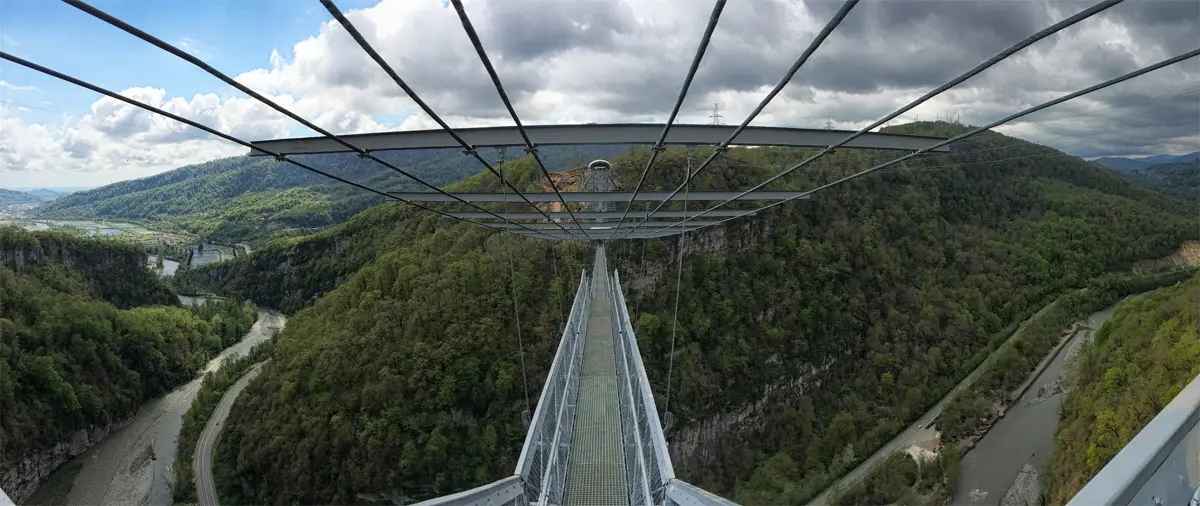
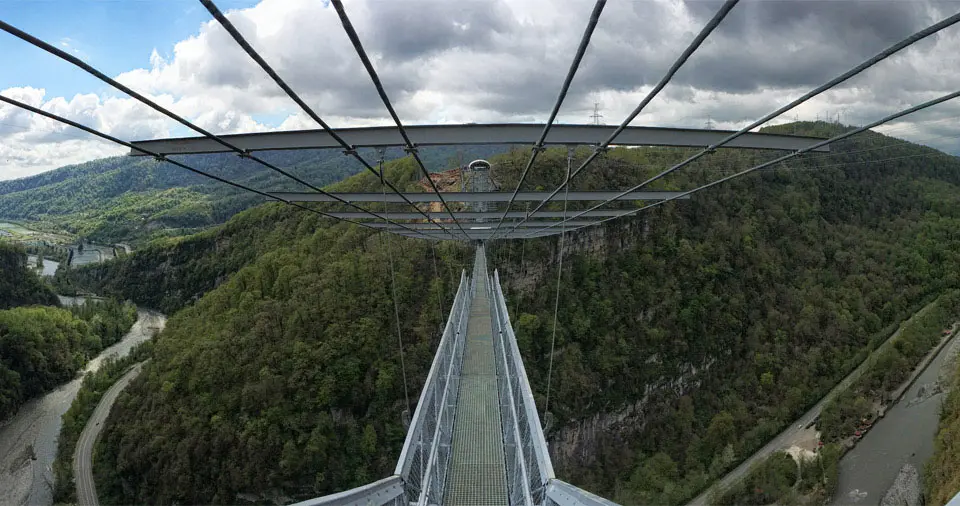
Множественные правки в связи с проблемами переполнения. Картинка первого комментария изменена на обрезанную по ширине контейнера.

diff --git a/source/index.html b/source/index.html
@@ -187,11 +187,17 @@
             </p>
           </blockquote>
         </div>
-        <p class="reviews__toggles slider__toggles">
-          <button class="slider__toggle slider__toggle--current" type="button" aria-label="Первый слайд"></button>
-          <button class="slider__toggle" type="button" aria-label="Второй слайд"></button>
-          <button class="slider__toggle" type="button" aria-label="Третий слайд"></button>
-        </p>
+        <ul class="reviews__toggles slider__toggles">
+          <li class="slider__item">
+            <button class="slider__toggle slider__toggle--current" type="button" aria-label="Первый слайд"></button>
+          </li>
+          <li class="slider__item">
+            <button class="slider__toggle" type="button" aria-label="Второй слайд"></button>
+          </li>
+          <li class="slider__item">
+            <button class="slider__toggle" type="button" aria-label="Третий слайд"></button>
+          </li>
+        </ul>
       </div>
     </section>
     <section class="prices">
@@ -260,11 +266,17 @@
             </tr>
           </tbody>
         </table>
-        <p class="prices__toggles slider__toggles">
-          <button class="slider__toggle" type="button" aria-label="Первый слайд"></button>
-          <button class="slider__toggle slider__toggle--current" type="button" aria-label="Второй слайд"></button>
-          <button class="slider__toggle" type="button" aria-label="Третий слайд"></button>
-        </p>
+        <ul class="prices__toggles slider__toggles">
+          <li class="slider__item">
+            <button class="slider__toggle" type="button" aria-label="Первый слайд"></button>
+          </li>
+          <li class="slider__item">
+            <button class="slider__toggle slider__toggle--current" type="button" aria-label="Второй слайд"></button>
+          </li>
+          <li class="slider__item">
+            <button class="slider__toggle" type="button" aria-label="Третий слайд"></button>
+          </li>
+        </ul>
       </div>
     </section>
     <section class="contacts">

diff --git a/source/less/blocks/photoeditor.less b/source/less/blocks/photoeditor.less
@@ -6,7 +6,7 @@
   &::before {
     content: "";
     position: absolute;
-    top: 724px;
+    bottom: -555px;
     width: 100%;
     height: 1px;
     background-color: @gray-dark;
@@ -50,7 +50,6 @@
   }
 
   &--reset {
-    margin-top: 12px;
     color: @gray-dark;
     background-color: @gray-light;
     border-color: @gray-dark;
@@ -67,6 +66,10 @@
       border-color: @gray-darken;
     }
   }
+}
+
+.photoeditor__button + .photoeditor__button {
+  margin-top: 12px;
 }
 
 .photoeditor__wrapper {
@@ -280,10 +283,7 @@
     width: 24px;
     height: 165px;
     padding: 0;
-    margin-top: 10px;
-    margin-right: 0;
-    margin-left: 2px;
-    margin-bottom: 0;
+    margin: 10px 0 40px 2px;
   }
 
   .photoeditor__wrapper-inputs {
@@ -302,11 +302,10 @@
 
   .photoeditor__button {
     width: 260px;
-    margin-top: auto;
+  }
 
-    &--reset {
-      margin-top: 24px;
-    }
+  .photoeditor__button + .photoeditor__button {
+    margin-top: 24px;
   }
 }
 
@@ -342,7 +341,7 @@
   .photoeditor__wrapper-buttons-tools {
     width: 48px;
     height: 186px;
-    margin: 0;
+    margin: 0 0 40px 0;
   }
 
   .photoeditor__tools {
@@ -376,14 +375,24 @@
 
   .photoeditor__buttons {
     display: flex;
+    flex-wrap: wrap;
+    align-items: flex-end;
+  }
+
+  .photoeditor__button + .photoeditor__button {
+    margin-top: 0;
   }
 
   .photoeditor__button {
     width: 183px;
-    margin: 0;
 
-    &--reset {
+    &:nth-child(even) {
+      margin-top: 0;
       margin-left: 44px;
+    }
+
+    &:nth-child(n+3) {
+      margin-top: 10px;
     }
   }
 }

diff --git a/source/less/blocks/advantages.less b/source/less/blocks/advantages.less
@@ -116,6 +116,7 @@
   .advantages__list {
     width: 310px;
     margin-right: 0;
+    margin-top: 60px;
     margin-bottom: 40px;
     text-align: left;
   }
@@ -150,10 +151,10 @@
 
   .advantages__images {
     display: flex;
+    flex-wrap: wrap;
     justify-content: space-between;
     width: 935px;
     margin-top: 0;
-    margin-bottom: 57px;
   }
 
   .advantages__image {
@@ -176,10 +177,11 @@
 
   .advantages__item {
     width: 240px;
+    margin-top: 57px;
   }
 
   .advantages__item + .advantages__item {
-    margin-top: 0;
+    margin-top: 57px;
   }
 
   .advantages__title {

diff --git a/source/less/blocks/download.less b/source/less/blocks/download.less
@@ -44,8 +44,7 @@
   line-height: 18px;
   text-decoration: none;
   text-align: center;
-  padding-top: 13px;
-  padding-bottom: 10px;
+  padding: 13px 10px 10px 10px;
   border: 3px solid @white;
   border-radius: 27px;
   margin: 29px auto 30px;
@@ -69,10 +68,10 @@
 .download__list {
   .list-reset();
   display: flex;
+  flex-wrap: wrap;
   justify-content: space-between;
   align-items: flex-end;
   width: 205px;
-  height: 56px;
   margin-right: auto;
   margin-left: auto;
 }

diff --git a/source/less/blocks/comment.less b/source/less/blocks/comment.less
@@ -165,7 +165,7 @@
 @media (min-width: @desktop-width) {
   .comment__link {
     &--first {
-      width: 1200px;
+      width: 960px;
     }
   }
 
@@ -177,7 +177,7 @@
 
   .comment__panorama-label {
     top: 53px;
-    right: 130px;
+    right: 10px;
   }
 
   .comment__wrapper {

diff --git a/source/less/blocks/site-list.less b/source/less/blocks/site-list.less
@@ -54,6 +54,7 @@
 @media (min-width: @desktop-width) {
   .site-list {
     display: flex;
+    flex-wrap: wrap;
     justify-content: space-between;
     width: 622px;
     font-weight: 400;

diff --git a/source/less/blocks/social.less b/source/less/blocks/social.less
@@ -1,6 +1,7 @@
 .social__list {
   .list-reset();
   display: flex;
+  flex-wrap: wrap;
   justify-content: space-between;
   width: 174px;
 }

diff --git a/source/less/blocks/slider.less b/source/less/blocks/slider.less
@@ -1,4 +1,5 @@
 .slider__toggles {
+  .list-reset();
   display: flex;
   justify-content: space-between;
   align-items: center;

diff --git a/source/less/blocks/prices.less b/source/less/blocks/prices.less
@@ -155,6 +155,7 @@
 
   .prices__wrapper {
     padding-top: 92px;
+    padding-bottom: 20px;
   }
 
   .prices__table {

diff --git a/source/less/blocks/gallery.less b/source/less/blocks/gallery.less
@@ -1,5 +1,4 @@
 .gallery {
-  position: relative;
   background-color: @white;
 }
 
